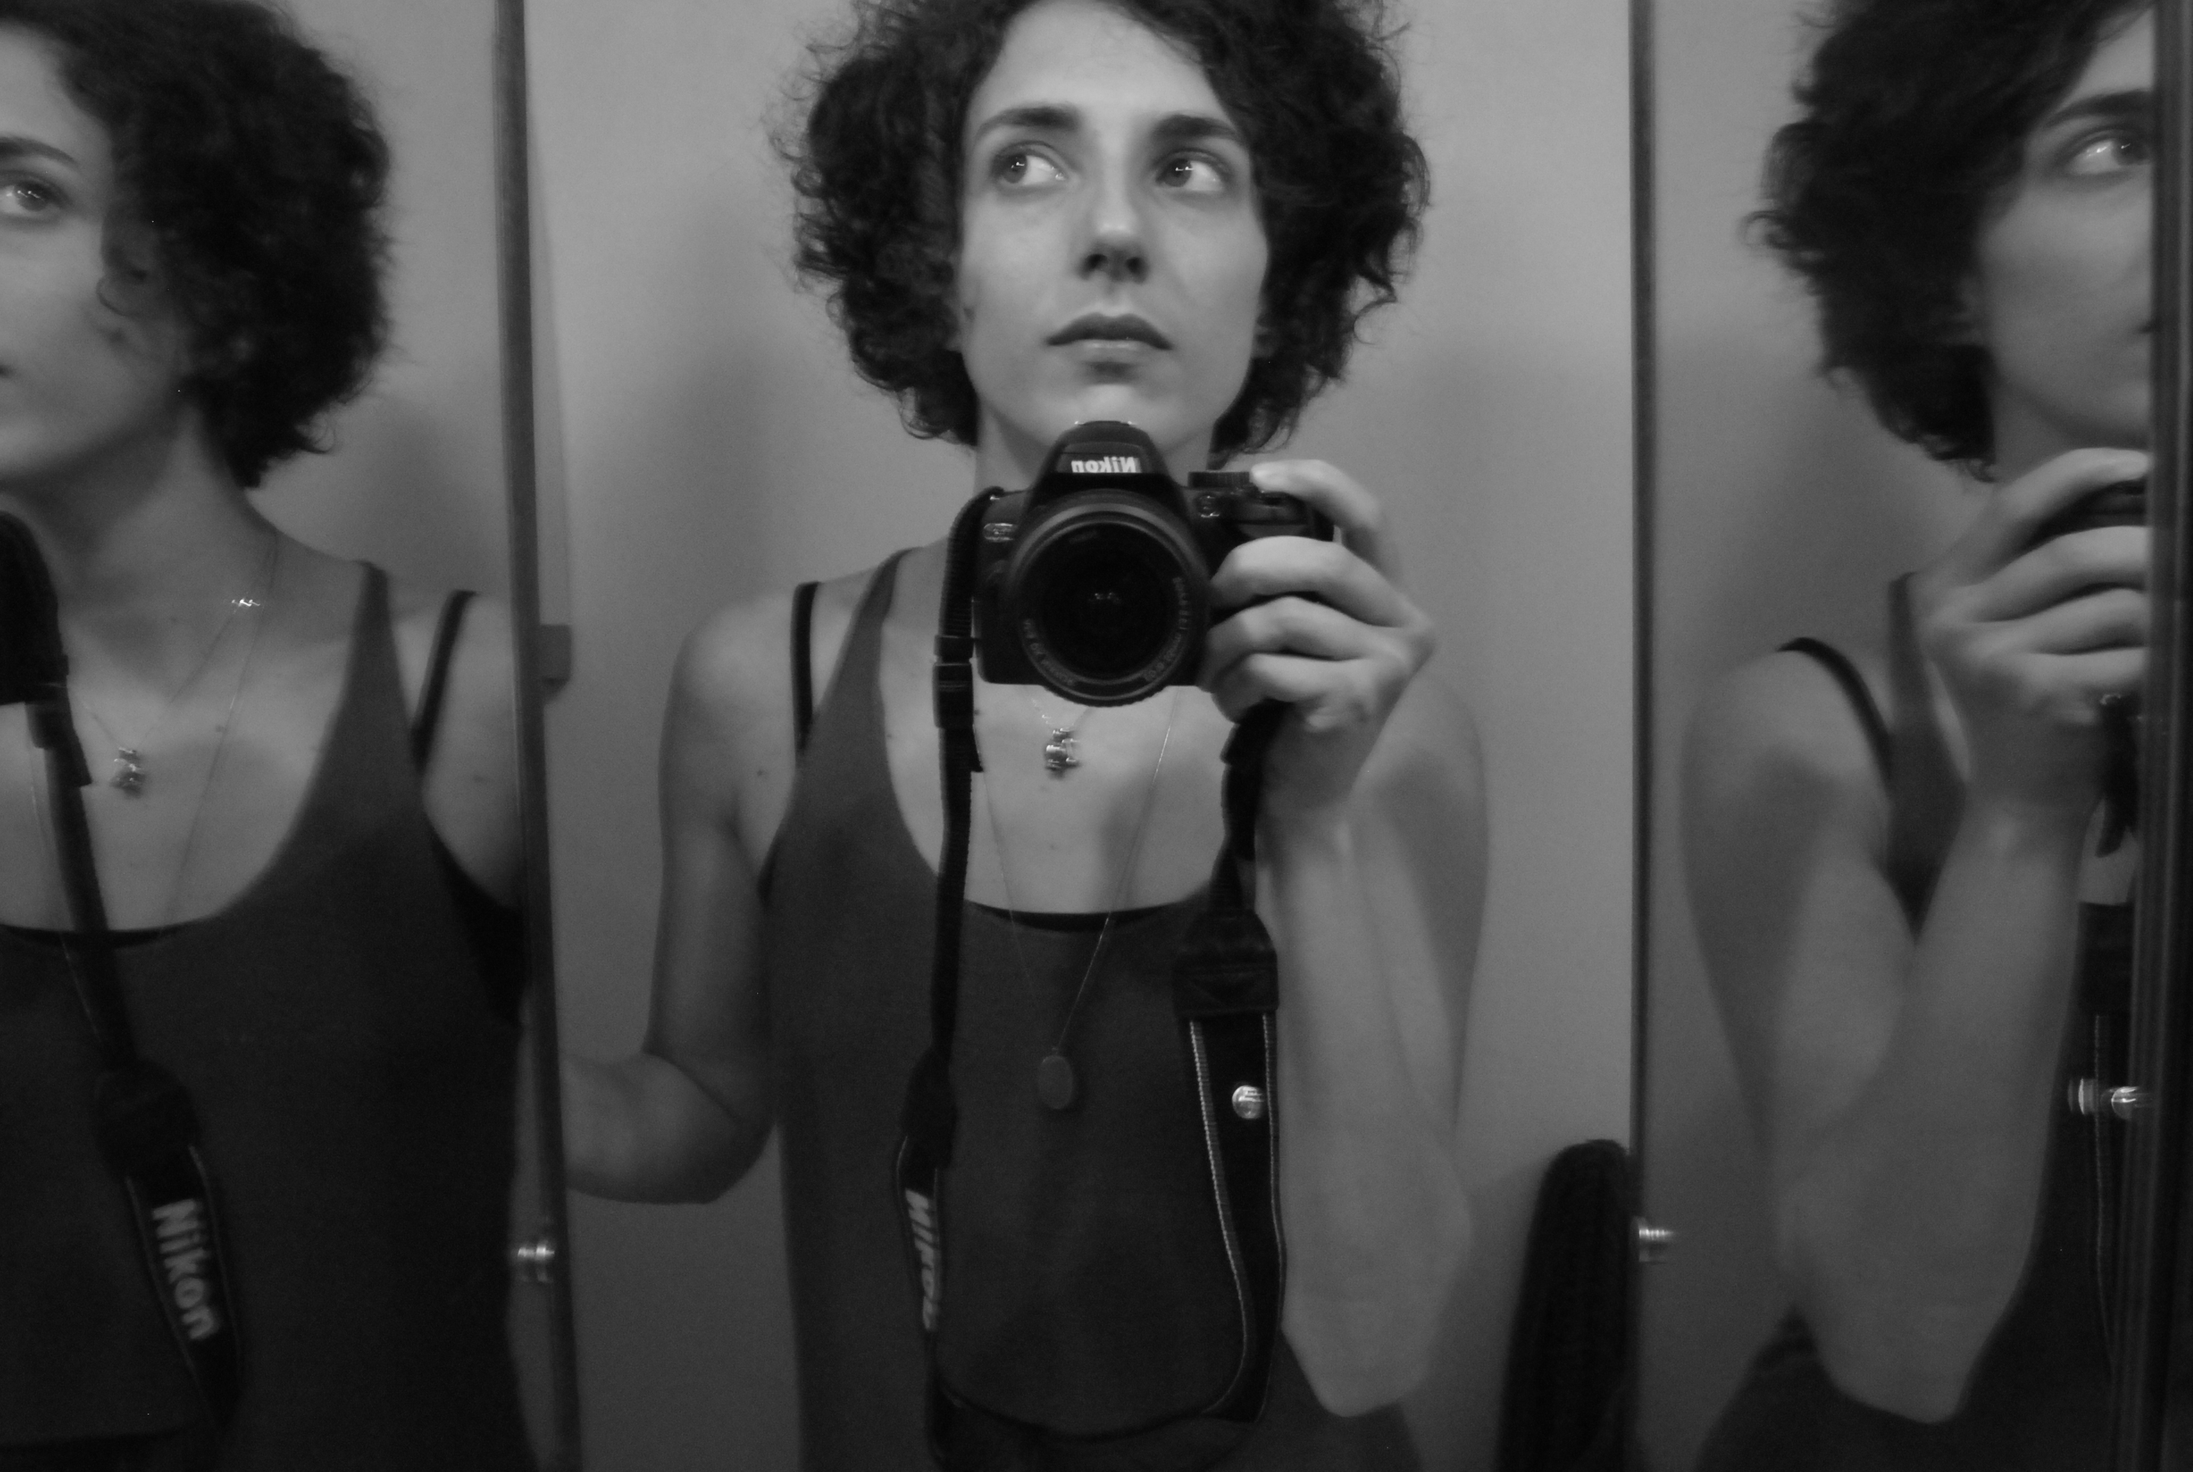
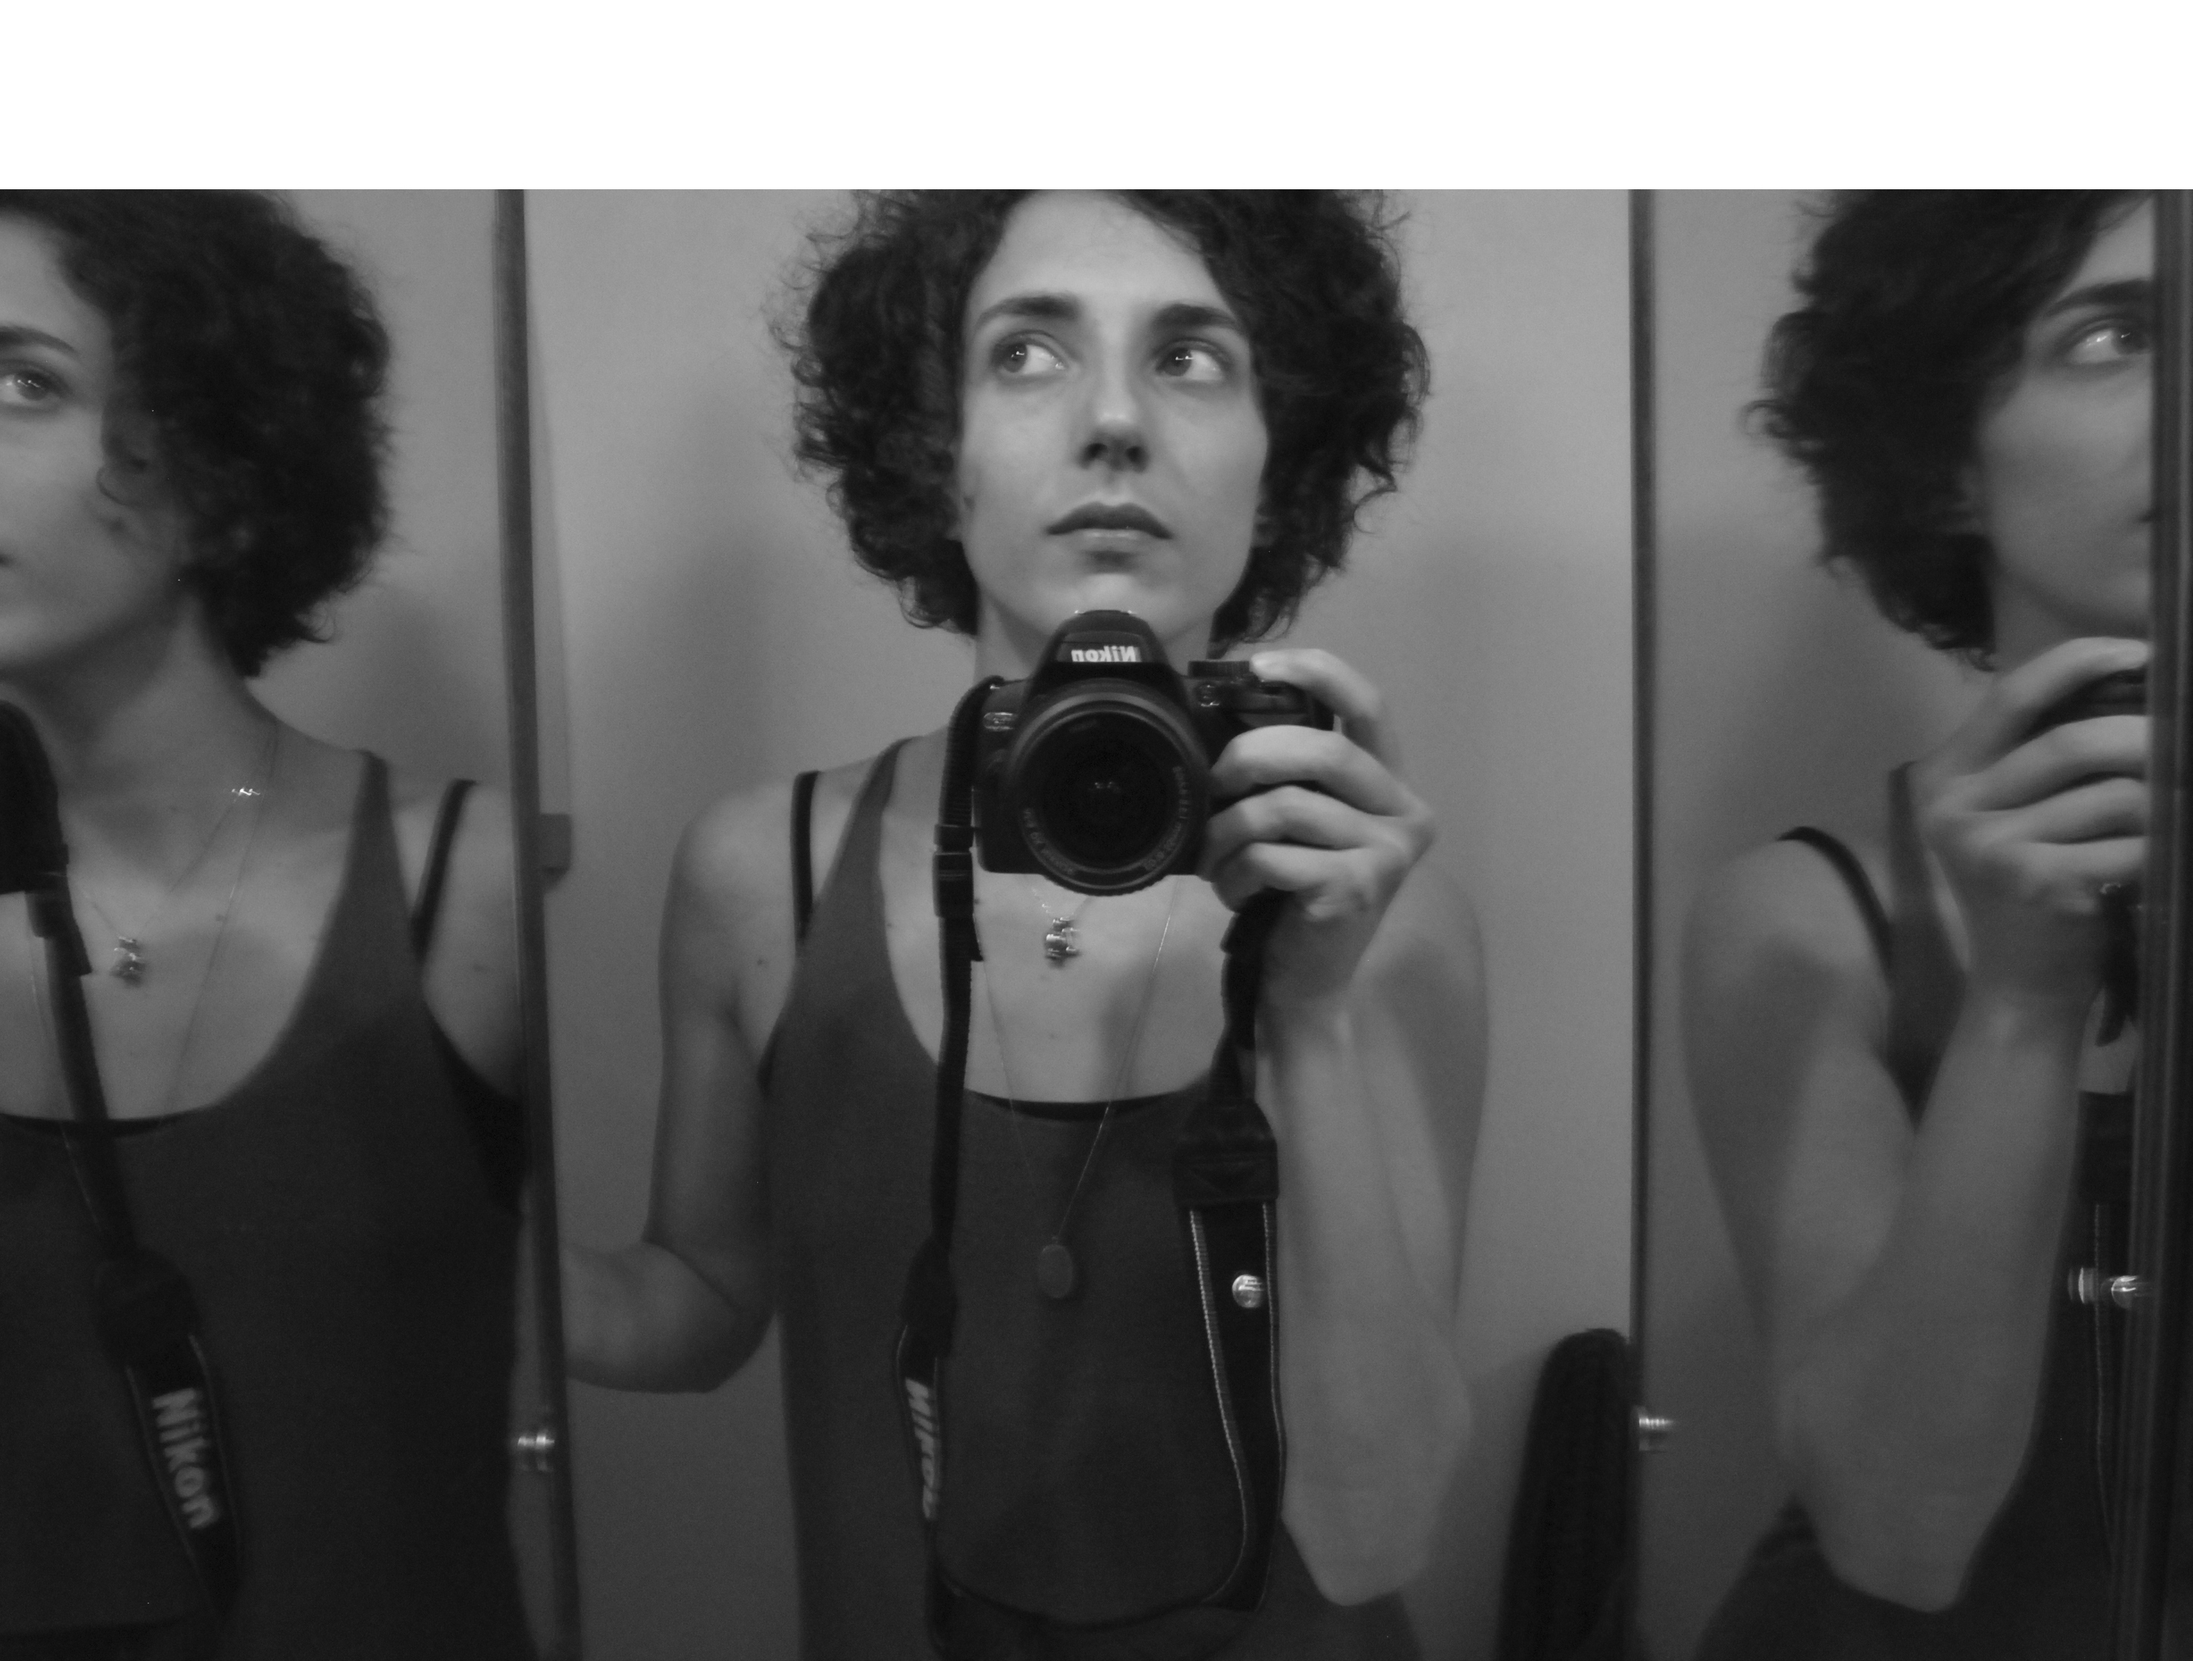
changed background image size

diff --git a/css/all.css b/css/all.css
@@ -1,4 +1,4 @@
-/* normalize.css v3.0.0 | MIT License | git.io/normalize */
+/*! normalize.css v3.0.0 | MIT License | git.io/normalize */
 /**
  * 1. Set default font family to sans-serif.
  * 2. Prevent iOS text size adjust after orientation change, without disabling
@@ -27,7 +27,7 @@ body {
 /**
  * Correct `block` display not defined in IE 8/9.
  */
-/* line 41, ../scss/_normalize.scss */
+/* line 30, ../scss/_normalize.scss */
 article,
 aside,
 details,
@@ -47,7 +47,7 @@ summary {
  * 1. Correct `inline-block` display not defined in IE 8/9.
  * 2. Normalize vertical alignment of `progress` in Chrome, Firefox, and Opera.
  */
-/* line 53, ../scss/_normalize.scss */
+/* line 50, ../scss/_normalize.scss */
 audio,
 canvas,
 progress,
@@ -72,7 +72,7 @@ audio:not([controls]) {
  * Address `[hidden]` styling not present in IE 8/9.
  * Hide the `template` element in IE, Safari, and Firefox < 22.
  */
-/* line 74, ../scss/_normalize.scss */
+/* line 73, ../scss/_normalize.scss */
 [hidden],
 template {
   display: none;
@@ -91,7 +91,7 @@ a {
 /**
  * Improve readability when focused and also mouse hovered in all browsers.
  */
-/* line 94, ../scss/_normalize.scss */
+/* line 93, ../scss/_normalize.scss */
 a:active,
 a:hover {
   outline: 0;
@@ -110,7 +110,7 @@ abbr[title] {
 /**
  * Address style set to `bolder` in Firefox 4+, Safari 5, and Chrome.
  */
-/* line 114, ../scss/_normalize.scss */
+/* line 113, ../scss/_normalize.scss */
 b,
 strong {
   font-weight: bold;
@@ -154,7 +154,7 @@ small {
 /**
  * Prevent `sub` and `sup` affecting `line-height` in all browsers.
  */
-/* line 158, ../scss/_normalize.scss */
+/* line 157, ../scss/_normalize.scss */
 sub,
 sup {
   font-size: 75%;
@@ -222,7 +222,7 @@ pre {
 /**
  * Address odd `em`-unit font size rendering in all browsers.
  */
-/* line 228, ../scss/_normalize.scss */
+/* line 225, ../scss/_normalize.scss */
 code,
 kbd,
 pre,
@@ -243,7 +243,7 @@ samp {
  * 2. Correct font properties not being inherited.
  * 3. Address margins set differently in Firefox 4+, Safari 5, and Chrome.
  */
-/* line 252, ../scss/_normalize.scss */
+/* line 248, ../scss/_normalize.scss */
 button,
 input,
 optgroup,
@@ -271,7 +271,7 @@ button {
  * Correct `button` style inheritance in Firefox, IE 8+, and Opera
  * Correct `select` style inheritance in Firefox.
  */
-/* line 274, ../scss/_normalize.scss */
+/* line 273, ../scss/_normalize.scss */
 button,
 select {
   text-transform: none;
@@ -284,7 +284,7 @@ select {
  * 3. Improve usability and consistency of cursor style between image-type
  *    `input` and others.
  */
-/* line 289, ../scss/_normalize.scss */
+/* line 286, ../scss/_normalize.scss */
 button,
 html input[type="button"],
 input[type="reset"],
@@ -298,7 +298,7 @@ input[type="submit"] {
 /**
  * Re-set default cursor for disabled elements.
  */
-/* line 299, ../scss/_normalize.scss */
+/* line 298, ../scss/_normalize.scss */
 button[disabled],
 html input[disabled] {
   cursor: default;
@@ -307,7 +307,7 @@ html input[disabled] {
 /**
  * Remove inner padding and border in Firefox 4+.
  */
-/* line 308, ../scss/_normalize.scss */
+/* line 307, ../scss/_normalize.scss */
 button::-moz-focus-inner,
 input::-moz-focus-inner {
   border: 0;
@@ -330,7 +330,7 @@ input {
  * 1. Address box sizing set to `content-box` in IE 8/9/10.
  * 2. Remove excess padding in IE 8/9/10.
  */
-/* line 331, ../scss/_normalize.scss */
+/* line 330, ../scss/_normalize.scss */
 input[type="checkbox"],
 input[type="radio"] {
   box-sizing: border-box;
@@ -344,7 +344,7 @@ input[type="radio"] {
  * `font-size` values of the `input`, it causes the cursor style of the
  * decrement button to change from `default` to `text`.
  */
-/* line 343, ../scss/_normalize.scss */
+/* line 342, ../scss/_normalize.scss */
 input[type="number"]::-webkit-inner-spin-button,
 input[type="number"]::-webkit-outer-spin-button {
   height: auto;
@@ -370,7 +370,7 @@ input[type="search"] {
  * Safari (but not Chrome) clips the cancel button when the search input has
  * padding (and `textfield` appearance).
  */
-/* line 367, ../scss/_normalize.scss */
+/* line 366, ../scss/_normalize.scss */
 input[type="search"]::-webkit-search-cancel-button,
 input[type="search"]::-webkit-search-decoration {
   -webkit-appearance: none;
@@ -426,7 +426,7 @@ table {
   border-spacing: 0;
 }
 
-/* line 421, ../scss/_normalize.scss */
+/* line 420, ../scss/_normalize.scss */
 td,
 th {
   padding: 0;
@@ -484,7 +484,7 @@ a {
 /* line 44, ../scss/_styles.scss */
 #body-background {
   position: relative;
-  background: url("../pics/aboutme-topmargin.jpg");
+  background: url("../pics/aboutme.jpg");
   background-position: 50% top;
   background-size: cover;
   background-repeat: no-repeat;

diff --git a/scss/_styles.scss b/scss/_styles.scss
@@ -43,7 +43,7 @@ a {
 
 #body-background {
 	position: relative;
-	background: url("../pics/aboutme-topmargin.jpg");
+	background: url("../pics/aboutme.jpg");
 	background-position: 50% top;
 	background-size: cover;
 	background-repeat: no-repeat;
